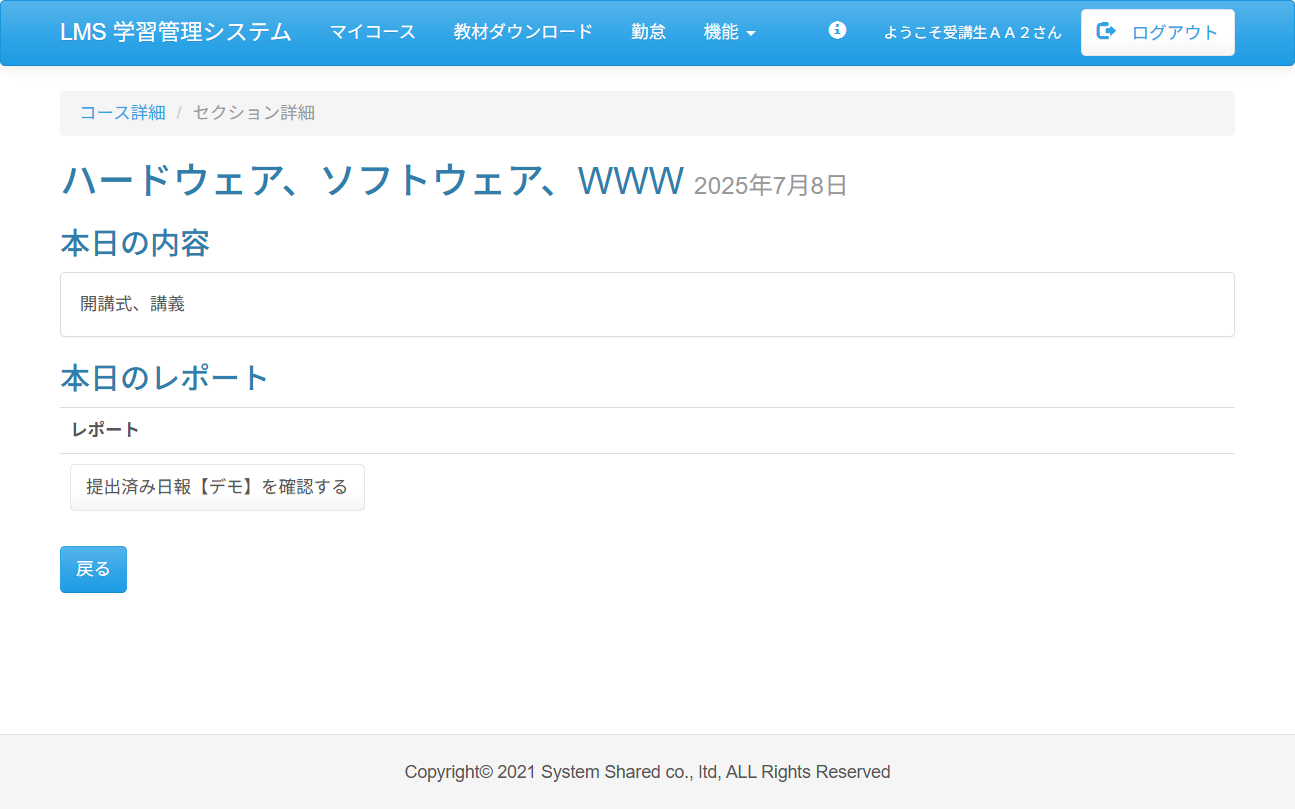
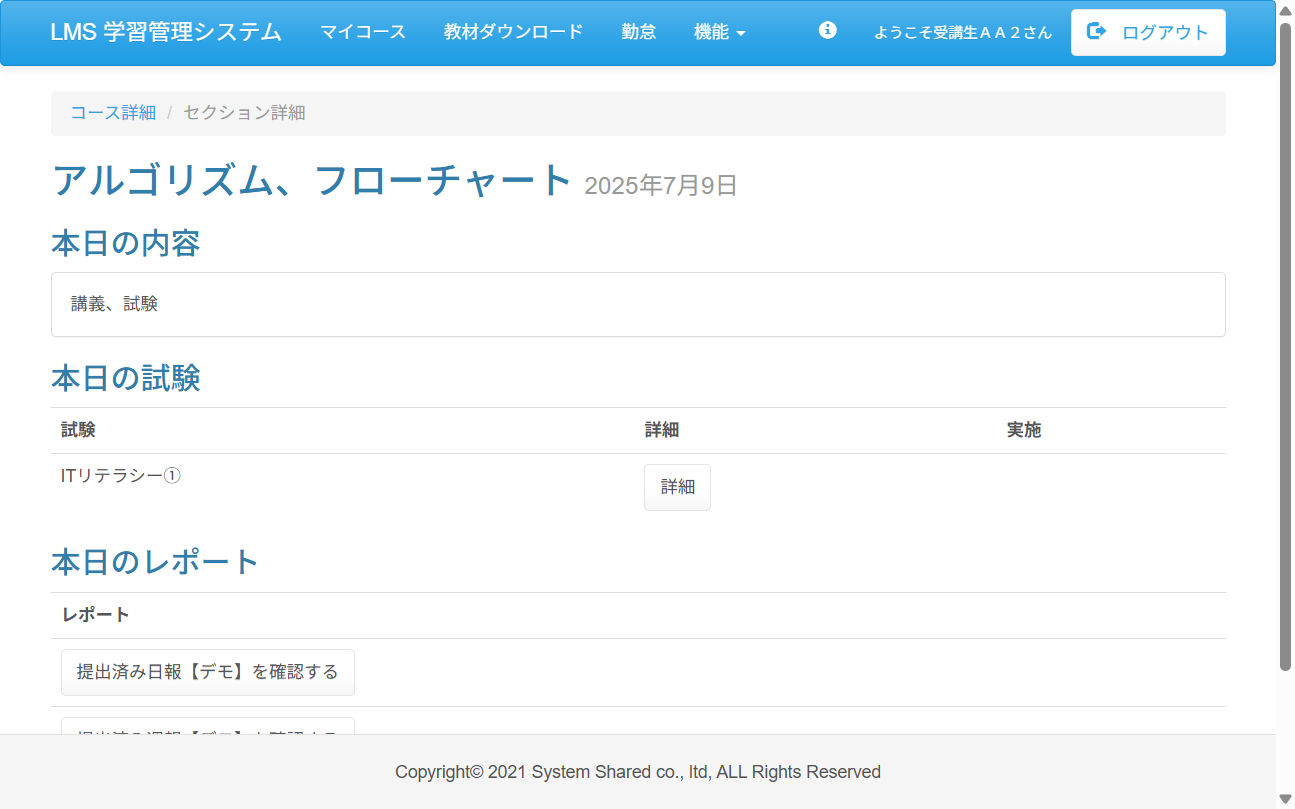
fix:Case8.埜本明希　受講生ユーザーでのログイン機能箇所の変更、タイトル比較による画面遷移のテストでログインを確認するように変更。日報の内容だったものを週報に変更。入力する場所が日報だったがテスト仕様書通りの週報への入力に修正。上記の動作確認のとれるエビデンスの変更。

diff --git a/test_code_creation_name/src/test/java/jp/co/sss/lms/ct/f03_report/Case08.java b/test_code_creation_name/src/test/java/jp/co/sss/lms/ct/f03_report/Case08.java
@@ -16,6 +16,7 @@ import org.junit.jupiter.api.TestMethodOrder;
 import org.openqa.selenium.By;
 import org.openqa.selenium.WebElement;
 import org.openqa.selenium.support.ui.ExpectedConditions;
+import org.openqa.selenium.support.ui.Select;
 import org.openqa.selenium.support.ui.WebDriverWait;
 
 /**
@@ -30,6 +31,8 @@ public class Case08 {
 	String url = "http://localhost:8080/lms";
 
 	String title = "ログイン | LMS";
+
+	String courseTitle = "コース詳細 | LMS";
 
 	String helptitle = "ヘルプ | LMS";
 
@@ -87,10 +90,13 @@ public class Case08 {
 		loginId.sendKeys(id);
 		password.sendKeys(pass);
 
-		assertEquals("StudentAA02", id, "ログインIDが一致していません");
-		assertEquals("StudentAA022", pass, "passwordが一致していません");
-
 		loginClick.click();
+
+		final WebDriverWait wait = new WebDriverWait(webDriver, Duration.ofSeconds(5));
+
+		wait.until(ExpectedConditions.titleIs(courseTitle));
+
+		assertEquals(courseTitle, webDriver.getTitle());
 
 		getEvidence(new Object() {
 		});
@@ -105,7 +111,7 @@ public class Case08 {
 
 		for (WebElement targetText : noSubmitted) {
 
-			if (targetText.getText().contains("提出済み")) {
+			if (targetText.getText().contains("2025年7月9日(水)")) {
 				//Java概要の詳細ボタンを押すための条件
 				final WebElement detailClick = targetText.findElement(By.cssSelector("input[value=\"詳細\"]"));
 
@@ -114,7 +120,7 @@ public class Case08 {
 				break;
 			}
 		}
-		final WebDriverWait wait = new WebDriverWait(webDriver, Duration.ofSeconds(60));
+		final WebDriverWait wait = new WebDriverWait(webDriver, Duration.ofSeconds(5));
 
 		wait.until(ExpectedConditions.titleIs(detailtitle));
 
@@ -130,11 +136,12 @@ public class Case08 {
 	@DisplayName("テスト04 「確認する」ボタンを押下しレポート登録画面に遷移")
 	void test04() {
 		// TODO ここに追加
-		final WebElement reportClick = webDriver.findElement(By.cssSelector("input[value=\"提出済み日報【デモ】を確認する\"]"));
+		final WebElement reportClick = webDriver.findElement(By.cssSelector("input[value=\"提出済み週報【デモ】を確認する\"]"));
 
+		scrollTo("100");
 		reportClick.click();
 
-		final WebDriverWait wait = new WebDriverWait(webDriver, Duration.ofSeconds(60));
+		final WebDriverWait wait = new WebDriverWait(webDriver, Duration.ofSeconds(5));
 
 		wait.until(ExpectedConditions.titleIs(reporttitle));
 
@@ -149,12 +156,27 @@ public class Case08 {
 	@DisplayName("テスト05 報告内容を修正して「提出する」ボタンを押下しセクション詳細画面に遷移")
 	void test05() {
 		// TODO ここに追加
-		final WebElement dailyReport = webDriver.findElement(By.className("form-control"));
+		final WebElement courseContent = webDriver.findElement(By.cssSelector("input[name=\"intFieldNameArray[0]\"]"));
+		courseContent.clear();
+		courseContent.sendKeys("seleniumテストコードによる学習項目欄のテスト 1回目以降の提出による内容が反映されているかの確認");
+
+		final Select level = new Select(
+				webDriver.findElement(By.cssSelector("select[name=\"intFieldValueArray[0]\"]")));
+		level.selectByValue("2");
+
+		final WebElement achievement = webDriver.findElement(By.cssSelector("textarea[id^='content_0']"));
+		achievement.clear();
+		achievement.sendKeys("10");
+
+		final WebElement impressions = webDriver.findElement(By.cssSelector("textarea[id^='content_1']"));
+		impressions.clear();
+		impressions.sendKeys("seleniumテストコードによる所感の欄のテスト 1回目以降の提出による内容が反映されているかの確認");
+
+		final WebElement review = webDriver.findElement(By.cssSelector("textarea[id^='content_2']"));
+		review.clear();
+		review.sendKeys("seleniumテストコードによる１週間の振り返り欄のテスト 1回目以降の提出による内容が反映されているかの確認");
+
 		final WebElement submission = webDriver.findElement(By.className("btn-primary"));
-
-		dailyReport.clear();
-		dailyReport.sendKeys("seleniumテストコードによるテスト 1回目以降の提出による内容が反映されているかの確認");
-
 		submission.click();
 
 		final WebDriverWait wait = new WebDriverWait(webDriver, Duration.ofSeconds(5));
@@ -195,15 +217,17 @@ public class Case08 {
 
 		for (WebElement targetText : noSubmitted) {
 
-			if (targetText.getText().contains("2025年7月8日(火)")) {
-				//Java概要の詳細ボタンを押すための条件
-				final WebElement detailClick = targetText.findElement(By.cssSelector("input[value=\"詳細\"]"));
+			if (targetText.getText().contains("2025年7月9日(水)")) {
+				if (targetText.getText().contains("週報【デモ】")) {
+					//Java概要の詳細ボタンを押すための条件
+					final WebElement detailClick = targetText.findElement(By.cssSelector("input[value=\"詳細\"]"));
 
-				scrollTo("600");
+					scrollTo("600");
 
-				detailClick.click();
+					detailClick.click();
 
-				break;
+					break;
+				}
 			}
 		}
 
@@ -213,12 +237,25 @@ public class Case08 {
 
 		assertEquals(reportDetailTitle, webDriver.getTitle());
 
-		final List<WebElement> reportElements = webDriver.findElements(By.cssSelector(".table-hover th.wq + td"));
+		final List<WebElement> reportElements = webDriver.findElements(By.cssSelector(".table-hover td"));
 
-		final WebElement reportContent = reportElements.get(1);
+		final WebElement courseContent = reportElements.get(1);
+		assertEquals("seleniumテストコードによる学習項目欄のテスト 1回目以降の提出による内容が反映されているかの確認",
+				courseContent.getText(), "週報の内容が一致しません");
 
-		assertEquals("seleniumテストコードによるテスト 1回目以降の提出による内容が反映されているかの確認",
-				reportContent.getText(), "日報の内容が一致しません");
+		final WebElement level = reportElements.get(2);
+		assertEquals("2", level.getText(), "週報の内容が一致しません");
+
+		final WebElement achievement = reportElements.get(3);
+		assertEquals("10", achievement.getText(), "週報の内容が一致しません");
+
+		final WebElement impressions = reportElements.get(4);
+		assertEquals("seleniumテストコードによる所感の欄のテスト 1回目以降の提出による内容が反映されているかの確認",
+				impressions.getText(), "週報の内容が一致しません");
+
+		final WebElement review = reportElements.get(5);
+		assertEquals("seleniumテストコードによる１週間の振り返り欄のテスト 1回目以降の提出による内容が反映されているかの確認",
+				review.getText(), "週報の内容が一致しません");
 
 		getEvidence(new Object() {
 		});
